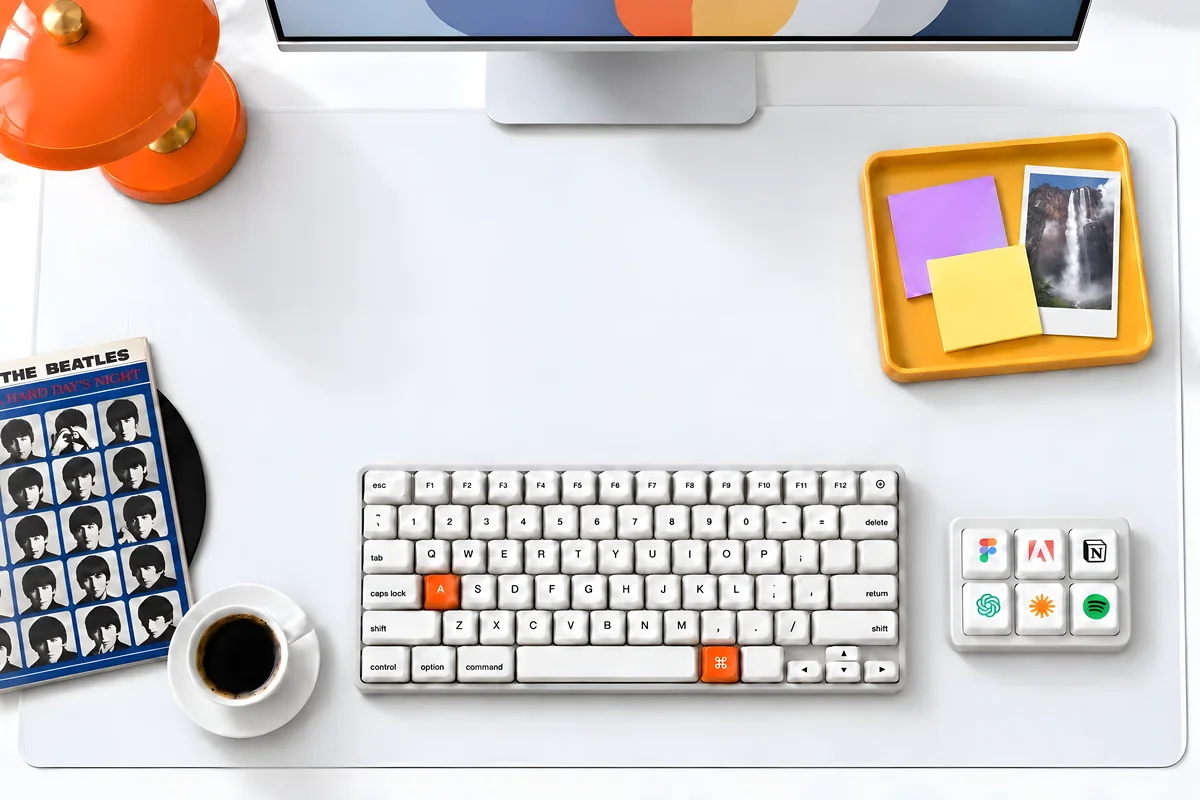
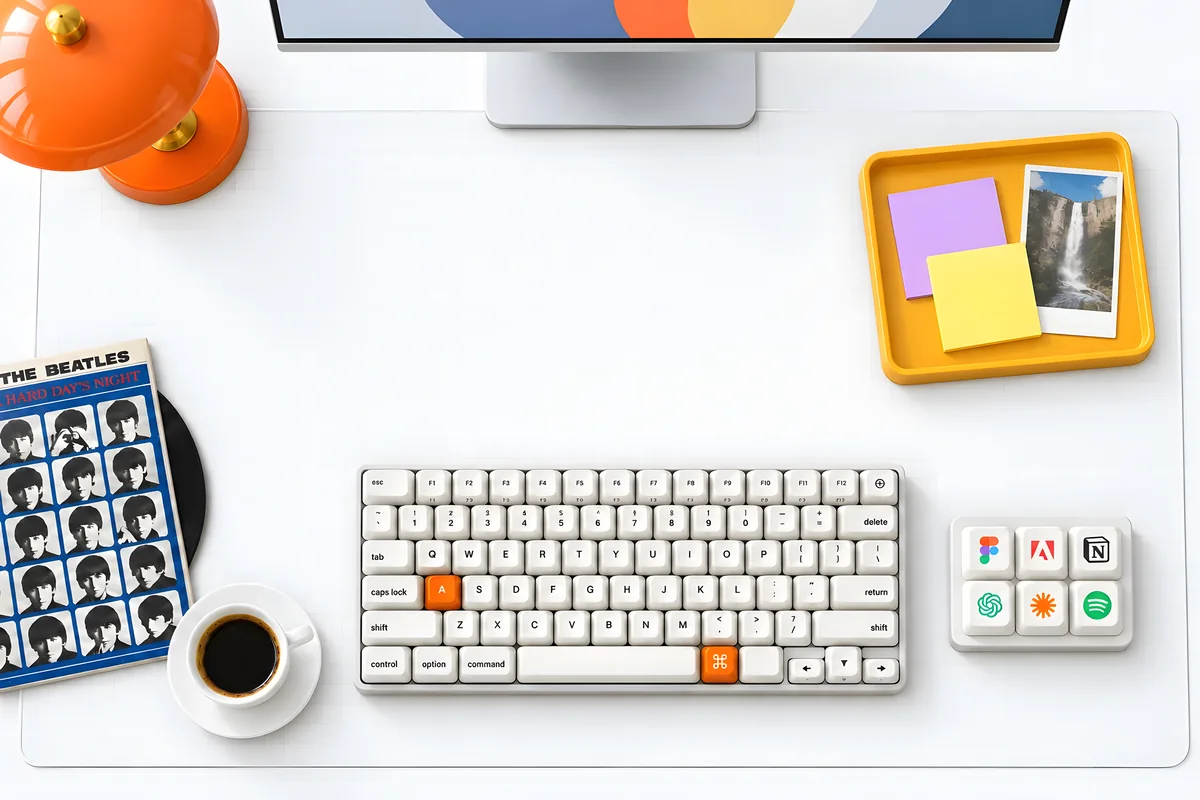
Use regenerated desk photos for the hero
Dany regenerated both desk images with a sharper prompt: crisp key
legends, Figma logo fixed, and pixel-identical framing between the
warm and light versions. They are still 1536x1024 (tool limit), so
they go through the same 4x Real-ESRGAN pass and WebP export, plus a
new O detail layer for E1.

- Re-measured key boxes and the O glyph (930.3, 709.5, 8.5px wide;
  keys ~46.5px) and updated both the main page and the test page
- Version query on hero image URLs so browsers fetch the new files
- First-generation images kept as *-v1.webp in referencias/hero-hello

diff --git a/web/pruebas-hello/index.html b/web/pruebas-hello/index.html
@@ -11,9 +11,9 @@
     if (theme === 'claro' || theme === 'calido') document.documentElement.dataset.theme = theme;
   } catch (error) {}
 </script>
-<link rel="stylesheet" href="../site.css?v=20261101-2">
-<link rel="stylesheet" href="pruebas.css?v=20261101-2">
-<script src="pruebas.js?v=20261101-2" defer></script>
+<link rel="stylesheet" href="../site.css?v=20261101-3">
+<link rel="stylesheet" href="pruebas.css?v=20261101-3">
+<script src="pruebas.js?v=20261101-3" defer></script>
 </head>
 <body>
 
@@ -40,12 +40,12 @@
     </div>
     <div class="desk" aria-hidden="true">
       <div class="desk__stage" id="desk-stage">
-        <img class="desk__photo desk__photo--calido" src="../assets/hero/escritorio-calido-3072.webp" srcset="../assets/hero/escritorio-calido-3072.webp 3072w, ../assets/hero/escritorio-calido-4608.webp 4608w" sizes="250vw" width="1536" height="1024" alt="">
-        <img class="desk__photo desk__photo--claro" src="../assets/hero/escritorio-claro-3072.webp" srcset="../assets/hero/escritorio-claro-3072.webp 3072w, ../assets/hero/escritorio-claro-4608.webp 4608w" sizes="250vw" width="1536" height="1024" alt="">
-        <span class="photo-key" data-key="h" style="--x:780; --y:737"></span>
-        <span class="photo-key" data-key="e" style="--x:625; --y:692"></span>
-        <span class="photo-key" data-key="l" style="--x:917; --y:737"></span>
-        <span class="photo-key" data-key="o" style="--x:905; --y:692"></span>
+        <img class="desk__photo desk__photo--calido" src="../assets/hero/escritorio-calido-3072.webp?v=2" srcset="../assets/hero/escritorio-calido-3072.webp?v=2 3072w, ../assets/hero/escritorio-calido-4608.webp?v=2 4608w" sizes="250vw" width="1536" height="1024" alt="">
+        <img class="desk__photo desk__photo--claro" src="../assets/hero/escritorio-claro-3072.webp?v=2" srcset="../assets/hero/escritorio-claro-3072.webp?v=2 3072w, ../assets/hero/escritorio-claro-4608.webp?v=2 4608w" sizes="250vw" width="1536" height="1024" alt="">
+        <span class="photo-key" data-key="h" style="--x:780; --y:736"></span>
+        <span class="photo-key" data-key="e" style="--x:625.5; --y:688"></span>
+        <span class="photo-key" data-key="l" style="--x:920.5; --y:735.5"></span>
+        <span class="photo-key" data-key="o" style="--x:907; --y:687"></span>
         <img class="detail-o" id="detail-o" alt="" width="3360" height="2040">
       </div>
     </div>

diff --git a/web/index.html b/web/index.html
@@ -72,12 +72,12 @@
 
     <div class="desk" id="desk" aria-hidden="true">
       <div class="desk__stage" id="desk-stage">
-        <img class="desk__photo desk__photo--calido" src="assets/hero/escritorio-calido-1920.webp" srcset="assets/hero/escritorio-calido-1200.webp 1200w, assets/hero/escritorio-calido-1920.webp 1920w, assets/hero/escritorio-calido-3072.webp 3072w" sizes="(max-width: 600px) 265vw, (max-width: 1099px) 130vw, 100vw" width="1536" height="1024" alt="" fetchpriority="high">
-        <img class="desk__photo desk__photo--claro" src="assets/hero/escritorio-claro-1920.webp" srcset="assets/hero/escritorio-claro-1200.webp 1200w, assets/hero/escritorio-claro-1920.webp 1920w, assets/hero/escritorio-claro-3072.webp 3072w" sizes="(max-width: 600px) 265vw, (max-width: 1099px) 130vw, 100vw" width="1536" height="1024" alt="">
-        <span class="desk__key" data-key="h" style="left:780px; top:737px"></span>
-        <span class="desk__key" data-key="e" style="left:625px; top:692px"></span>
-        <span class="desk__key" data-key="l" style="left:917px; top:737px"></span>
-        <span class="desk__key" data-key="o" style="left:905px; top:692px"></span>
+        <img class="desk__photo desk__photo--calido" src="assets/hero/escritorio-calido-1920.webp?v=2" srcset="assets/hero/escritorio-calido-1200.webp?v=2 1200w, assets/hero/escritorio-calido-1920.webp?v=2 1920w, assets/hero/escritorio-calido-3072.webp?v=2 3072w" sizes="(max-width: 600px) 265vw, (max-width: 1099px) 130vw, 100vw" width="1536" height="1024" alt="" fetchpriority="high">
+        <img class="desk__photo desk__photo--claro" src="assets/hero/escritorio-claro-1920.webp?v=2" srcset="assets/hero/escritorio-claro-1200.webp?v=2 1200w, assets/hero/escritorio-claro-1920.webp?v=2 1920w, assets/hero/escritorio-claro-3072.webp?v=2 3072w" sizes="(max-width: 600px) 265vw, (max-width: 1099px) 130vw, 100vw" width="1536" height="1024" alt="">
+        <span class="desk__key" data-key="h" style="left:780px; top:736px"></span>
+        <span class="desk__key" data-key="e" style="left:625.5px; top:688px"></span>
+        <span class="desk__key" data-key="l" style="left:920.5px; top:735.5px"></span>
+        <span class="desk__key" data-key="o" style="left:907px; top:687px"></span>
       </div>
     </div>
   </section>

diff --git a/web/pruebas-hello/pruebas.js b/web/pruebas-hello/pruebas.js
@@ -15,10 +15,10 @@
   const PHOTO_H = 1024;
   // Letra O en la foto (px de la imagen original) y en la tecla HELLO (fracción de la imagen),
   // para que el cruce alinee las letras y no los bordes de las teclas.
-  const PHOTO_O = { cx: 929.8, cy: 708.85, glyph: 9.5 };
+  const PHOTO_O = { cx: 930.3, cy: 709.5, glyph: 8.5 };
   const HELLO_O = { cx: .5, cy: .46, glyph: .2888 };
   // Ancho de la tecla O en la foto (px de la imagen original), para que la O aterrice a su tamaño.
-  const PHOTO_KEY_W = 45;
+  const PHOTO_KEY_W = 46.5;
 
   const NOTES = {
     b: 'B · Tus teclas HELLO reales caen, esperan y vuelan en curva hasta su letra del teclado.',
@@ -161,7 +161,7 @@
     const theme = root.dataset.theme === 'claro' ? 'claro' : 'calido';
     const keyO = realKeys[4];
     keyO.src = '../assets/hello/' + theme + '-o-grande.webp';
-    detailO.src = '../assets/hero/escritorio-' + theme + '-detalle-o.webp';
+    detailO.src = '../assets/hero/escritorio-' + theme + '-detalle-o.webp?v=2';
     if (settings.keyWidth) keyRow.style.setProperty('--k', settings.keyWidth + 'px');
     overlay.classList.add('is-on');
     if (settings.anchorO) {

diff --git a/web/pruebas-hello/pruebas.css b/web/pruebas-hello/pruebas.css
@@ -27,15 +27,15 @@
   position: absolute;
   left: calc(var(--x) * 1px);
   top: calc(var(--y) * 1px);
-  width: 42px;
-  height: 43px;
+  width: 46.5px;
+  height: 47.5px;
   border-radius: 7px;
   background-size: 1536px 1024px;
   background-position: calc(var(--x) * -1px) calc(var(--y) * -1px);
   transition: transform .12s ease, filter .12s ease, box-shadow .12s ease;
 }
-[data-theme="calido"] .photo-key { background-image: url('../assets/hero/escritorio-calido-4608.webp'); }
-[data-theme="claro"] .photo-key { background-image: url('../assets/hero/escritorio-claro-4608.webp'); }
+[data-theme="calido"] .photo-key { background-image: url('../assets/hero/escritorio-calido-4608.webp?v=2'); }
+[data-theme="claro"] .photo-key { background-image: url('../assets/hero/escritorio-claro-4608.webp?v=2'); }
 .photo-key.is-down {
   transform: translateY(1.6px) scale(.975);
   filter: brightness(.92);

diff --git a/web/site.css b/web/site.css
@@ -234,7 +234,7 @@ p { margin: 0; }
 .desk__photo { position: absolute; inset: 0; width: 100%; height: 100%; transition: opacity .7s ease; }
 [data-theme="calido"] .desk__photo--claro,
 [data-theme="claro"] .desk__photo--calido { opacity: 0; }
-.desk__key { position: absolute; width: 42px; height: 43px; }
+.desk__key { position: absolute; width: 46.5px; height: 47.5px; }
 
 /* ---------- Intro HELLO ---------- */
 

diff --git a/referencias/hero-hello/LEEME.md b/referencias/hero-hello/LEEME.md
@@ -1,8 +1,13 @@
 # Referencias del hero HELLO
 
-Imágenes generadas por Dany con otra herramienta de IA, compartidas el 1 de noviembre de 2026. Miden 1536 × 1024 px y se pixelaban al ampliarse. Las versiones mejoradas con IA (Real-ESRGAN ×4) para la web están en `../../web/assets/hero/`.
+**Versión actual (1 de noviembre de 2026, segunda generación):** `escritorio-calido.webp` y `escritorio-claro.webp`. Dany las regeneró con un prompt más preciso y obtuvo letras nítidas, el logo de Figma corregido y las dos versiones con el mismo encuadre, píxel a píxel. La herramienta entrega 1536 × 1024 como máximo; por eso se escalan ×4 con IA (Real-ESRGAN) para la web (`../../web/assets/hero/`). Si se consiguen los PNG originales sin recomprimir, conviene sustituir estos archivos y volver a exportar.
 
-- `escritorio-calido.webp` y `escritorio-claro.webp`: escritorio visto desde arriba, base del hero en los dos modos.
-- `hello-calido.png` y `hello-claro.png`: teclas HELLO con la L naranja, base de la intro.
+Posiciones en la imagen original (px), usadas por la intro:
+- Tecla H: 780, 736. Tecla E: 625,5, 688. Tecla L: 920,5, 735,5. Tecla O: 907, 687 (≈ 46,5 × 47,5).
+- Letra O: centro en 930,3, 709,5; 8,5 px de ancho.
 
-La foto del escritorio incluye la portada de un disco de The Beatles, que tiene derechos de autor. Antes de publicar conviene sustituirla.
+Primera generación: `escritorio-calido-v1.webp` y `escritorio-claro-v1.webp`, con letras borrosas y Google en lugar de Figma.
+
+`hello-calido.png` y `hello-claro.png`: teclas HELLO con la L naranja, base de la intro.
+
+**Derechos:** la foto incluye la portada de *A Hard Day's Night* de The Beatles, por decisión de Dany. Antes de publicar la web conviene revisarlo, porque la portada y las fotos de los músicos tienen derechos.
